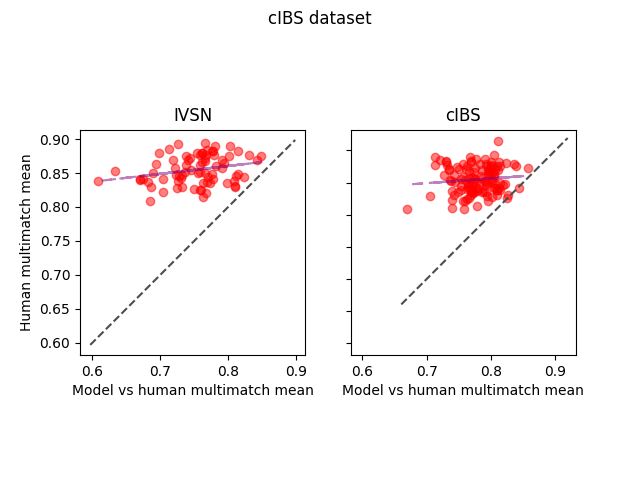
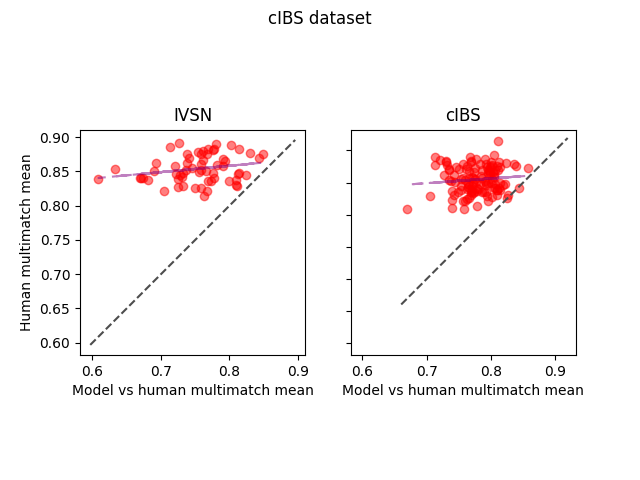
Pequeño cambio en multimatch y reubicacion de script para dibujar scanpaths

diff --git a/Metrics/multimatch.py b/Metrics/multimatch.py
@@ -28,12 +28,8 @@ class Multimatch:
         for ax in axs:
             ax.set(xlabel='Model vs human multimatch mean', ylabel='Human multimatch mean')
             ax.label_outer()
-            ax_min_x, ax_max_x = min(ax.get_xlim()), max(ax.get_xlim())
-            ax_min_y, ax_max_y = min(ax.get_ylim()), max(ax.get_ylim())
-            if ax_min_x < min_x: min_x = ax_min_x
-            if ax_max_x > max_x: max_x = ax_max_x
-            if ax_min_y < min_y: min_y = ax_min_y
-            if ax_max_y > max_y: max_y = ax_max_y
+            min_x, max_x = min(min(ax.get_xlim()), min_x), max(max(ax.get_xlim()), max_x)
+            min_y, max_y = min(min(ax.get_ylim()), min_y), max(max(ax.get_ylim()), max_y)
 
         fig.suptitle(self.dataset_name + ' dataset')
         plt.xlim(min_x, max_x)
